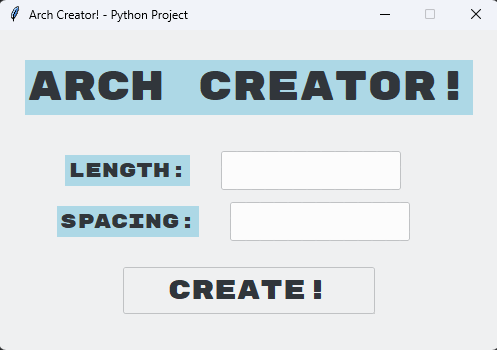
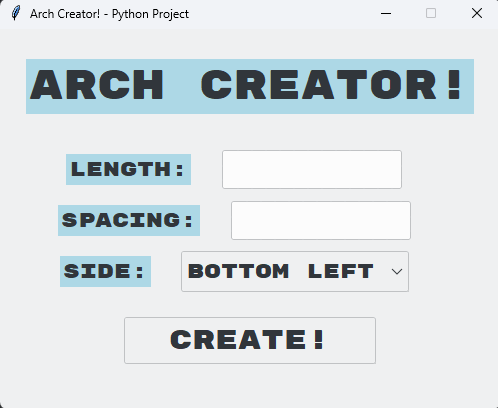
Add files via upload

diff --git a/arch_creator.py b/arch_creator.py
@@ -17,8 +17,7 @@ def start_creation():
             root.after_cancel(reset_animation)
 
         title_label.configure(text="Please fill in all fields", bg="red", font=("Rubik Mono One", 16))
-        reset_animation = root.after(1500, lambda: title_label.configure(text="Arch Creator!", bg="light blue",
-                                                                         font=("Rubik Mono One", 30)))
+        reset_animation = root.after(1500, lambda: title_label.configure(text="Arch Creator!", bg="light blue", font=("Rubik Mono One", 30)))
         return
 
     if int(length_entry.get()) == 0 or int(spacing_entry.get()) == 0:
@@ -30,13 +29,21 @@ def start_creation():
 
         return
 
+    if not side_box.get():
+        if reset_animation:
+            root.after_cancel(reset_animation)
+        title_label.configure(text="Please select a side!", bg="red", font=("Rubik Mono One", 16))
+        reset_animation = root.after(1500, lambda: title_label.configure(text="Arch Creator!", bg="light blue", font=("Rubik Mono One", 30)))
+
+        return
+
     try:
         import arch_library as al
 
         turtle_root.getcanvas().winfo_toplevel().deiconify()
 
         create_button.configure(state="disabled")
-        al.create_arch(pen, length=int(length_entry.get()), spacing=int(spacing_entry.get()))
+        al.create_arch(pen, length=int(length_entry.get()), spacing=int(spacing_entry.get()), corner = side_box.get())
         create_button.configure(state="normal")
 
         if reset_animation:
@@ -45,8 +52,14 @@ def start_creation():
         title_label.configure(text="Arch Completed!", bg="green", font=("Rubik Mono One", 20))
         reset_animation = root.after(2000, lambda: title_label.configure(text="Arch Creator!", bg="light blue", font=("Rubik Mono One", 30)))
 
-    except (ImportError, tk.TclError):
+
+    except ImportError:
         print("\033[31mLibrary not functioning correctly. Please check if the \"arch_library\" program is installed and in the same directory as the \"arch_creator\" program.\033[0m")
+        exit()
+
+
+    except tk.TclError:
+        print("Program force closed.")
         exit()
 
 # =================================================================
@@ -54,7 +67,7 @@ def start_creation():
 root = ThemedTk(theme = "breeze")
 
 screen_width = 500
-screen_height = 320
+screen_height = 380
 
 screen_width_middle = int(root.winfo_screenwidth() / 2 - screen_width / 2)
 screen_height_middle = int(root.winfo_screenheight() / 2 - screen_height / 2)
@@ -86,6 +99,7 @@ pen.pencolor("white")
 def on_turtle_close():
     turtle.bye()
     if root.winfo_exists():
+        create_button.configure(state="normal")
         root.destroy()
     print("Program force closed.")
 
@@ -135,6 +149,23 @@ spacing_label.pack(side = tk.LEFT)
 
 spacing_entry = ttk.Entry(spacing_frame, validate = "key", validatecommand = vcmd, font = ("Rubik Mono One", 15), width = 10)
 spacing_entry.pack(padx = 30, side = tk.LEFT)
+
+# -----------------------------------------------------------------
+
+side_frame = tk.Frame(root)
+side_frame.pack(pady = 5)
+
+
+side_label = tk.Label(side_frame, text = "Side:", background = "light blue", font = ("Rubik Mono One", 15))
+side_label.pack(side = tk.LEFT)
+
+root.option_add("*TCombobox*Listbox.font", ("Rubik Mono One", 15))
+side_box = ttk.Combobox(side_frame, font = ("Rubik Mono One", 15), width = 12, state = "readonly")
+side_box["values"] = ("Bottom left", "Bottom right", "Top left", "Top right")
+side_box.current(0)
+side_box.pack(padx = 30, side = tk.LEFT)
+
+# -----------------------------------------------------------------
 
 create_button = ttk.Button(root, text = "Create!", style = "TButton", command = start_creation)
 create_button.pack(pady = 20)

diff --git a/arch_library.py b/arch_library.py
@@ -1,15 +1,51 @@
 import numpy as np
 
-def create_arch(pen, length, spacing):
-    width = length
+def create_arch(pen, length, spacing, corner):
     pen.clear()
 
-    for height in np.arange(0 - length, length + spacing, spacing):
-        pen.penup()
-        pen.goto(width, 0 - length)
-        pen.pendown()
-        pen.goto(0 - length, height)
+    if corner == "Bottom left":
+        width = length
 
-        width -= spacing
+        for height in np.arange(0 - length, length + spacing, spacing):
+            pen.penup()
+            pen.goto(width, 0 - length)
+            pen.pendown()
+            pen.goto(0 - length, height)
+
+            width -= spacing
+
+    elif corner == "Bottom right":
+        width = 0 - length
+
+        for height in np.arange(0 - length, length + spacing, spacing):
+            pen.penup()
+            pen.goto(width, 0 - length)
+            pen.pendown()
+            pen.goto(length, height)
+
+            width += spacing
+
+    elif corner == "Top left":
+        width = length
+
+        for height in np.arange(length, 0 - length - spacing, -spacing):
+            pen.penup()
+            pen.goto(width, length)
+            pen.pendown()
+            pen.goto(0 - length, height)
+
+            width -= spacing
+
+    elif corner == "Top right":
+        width = 0 - length
+
+        for height in np.arange(length, 0 - length - spacing, -spacing):
+            pen.penup()
+            pen.goto(width, length)
+            pen.pendown()
+            pen.goto(length, height)
+
+            width += spacing
+
 
 if __name__ == "__main__": print("\033[31mThis is the arch library, please run the \"arch_creator\" program instead.\033[0m")
